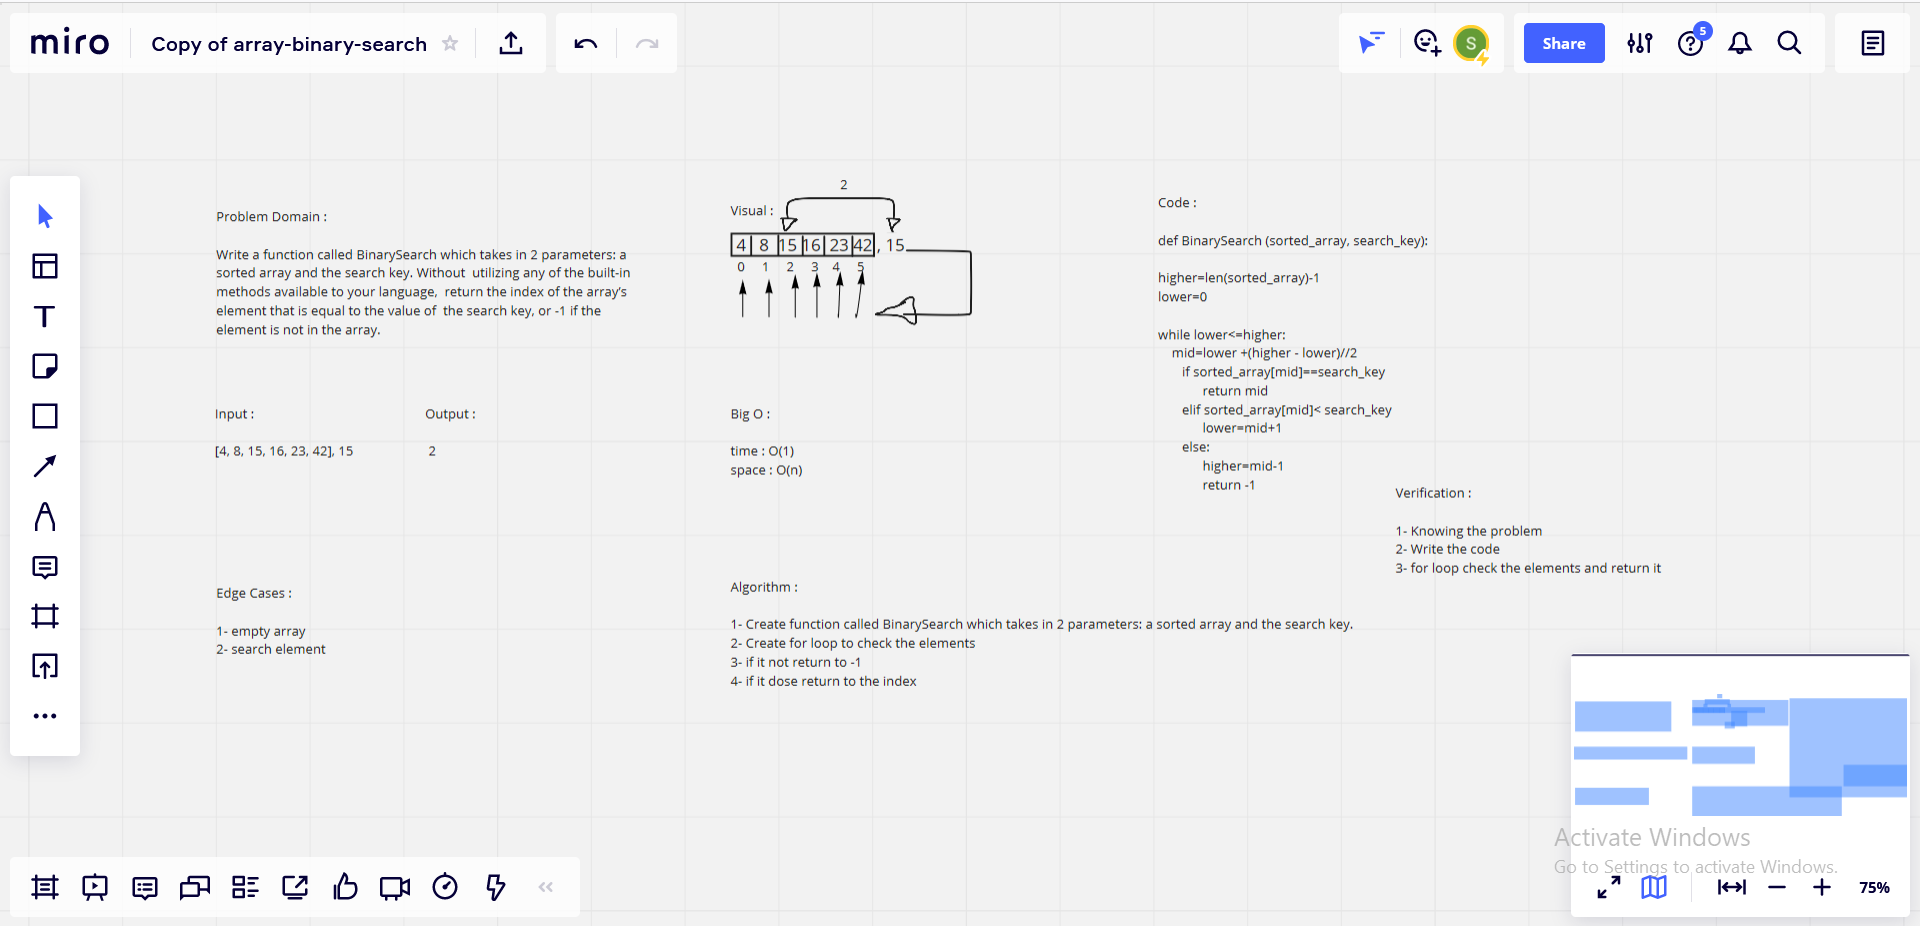
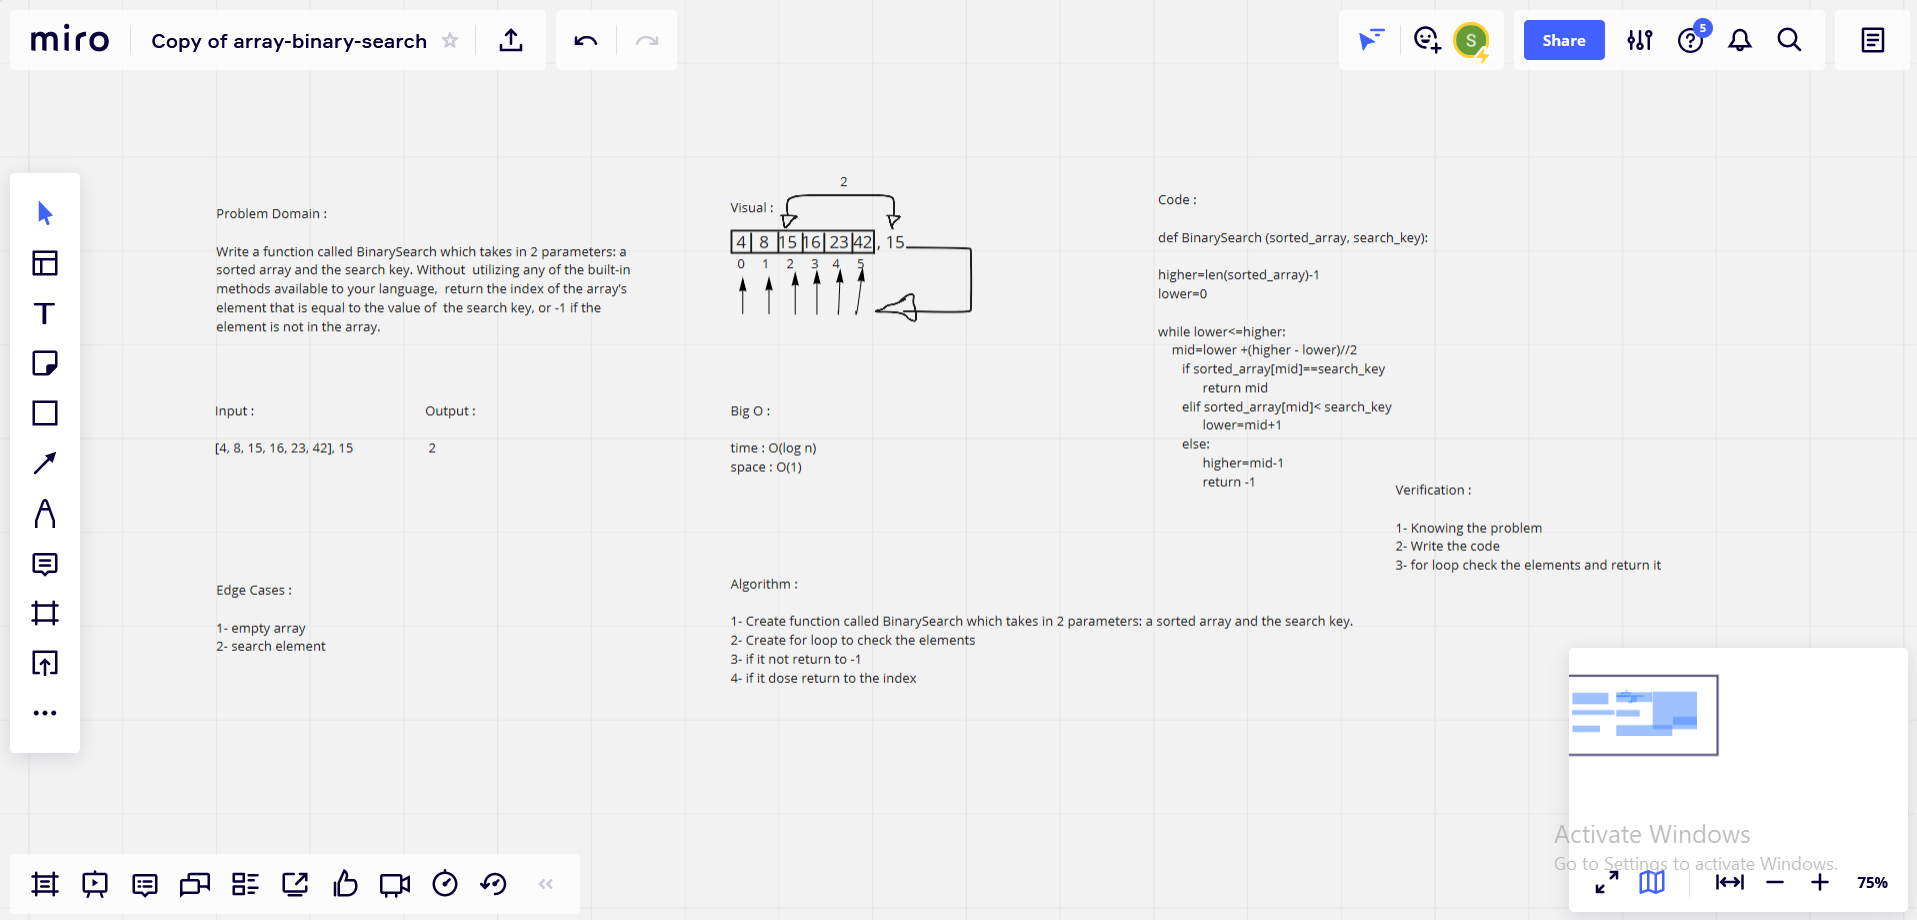
Edit the code challenge 03

diff --git a/python/array-binary-search/array-binary-search.md b/python/array-binary-search/array-binary-search.md
@@ -12,6 +12,6 @@
 
  > Discuss Why. What is the Big O space/time for this approach ?  
 
-*Time : O(1), Becuase: it requires constant time to perform operations like to reach an element in constant time as in case of dictionary*
+*Time : O(log n), Because: it is a logarithmic binary search*
 
-*Space : O(n), Becuase: it depends on the value of n to perform operations such as searching an element in an array of n elements.*
+*Space : O(1), Becuase: it requires constant time to perform operations like to reach an element in constant time as in case of dictionary*
